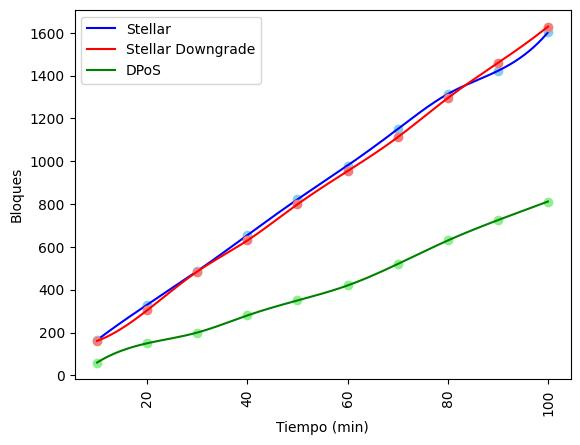
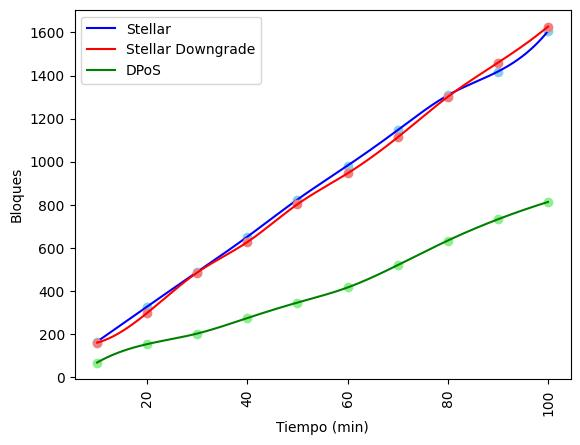
Improve chart generation

diff --git a/chart.py b/chart.py
@@ -32,53 +32,33 @@ def renderPlot(df, xLabel, yLabel, chartName):
     plt.savefig('charts/%s.jpg' % chartName,  bbox_inches="tight")
     plt.clf()
 
+def getJsonFile(filename):
+    with open(filename) as f:
+        data = json.load(f)
+    return data
+
+def getAverageData(filenames, getArr):
+    sumList = None
+    for filename in filenames:
+        data = getJsonFile(filename)
+        filterData = getArr(data)
+        if(sumList == None):
+            sumList = filterData
+        else:
+            sumList = list(map(lambda x,y: x+y, sumList, filterData))
+    return list(map(lambda x: x / len(filenames), sumList))
+
 ########################################
 # Bloques by Nodes
 ########################################
-## Stellar
-with open('results/stellar_10.json') as f:
-    stellar = json.load(f)
+def getBlockByNode(data):
+    return list(map(lambda x: x['blocks'], data['10'].values()))
 
-stellars_blocks = list(map(lambda x: x['blocks'], stellar['10'].values())) 
+stellars_blocks = getAverageData(['results/stellar_10.json'] + [f'results/stellar_10_{i}.json' for i in range(1, 6)] , getBlockByNode) 
+stellars_downgrade_blocks = getAverageData(['results/stellar_downgrade_10.json'] + [f'results/stellar_downgrade_10_{i}.json' for i in range(1, 6)] , getBlockByNode)
+dpos_blocks = getAverageData(['results/dpos_10.json'] + [f'results/dpos_10_{i}.json' for i in range(1, 6)] , getBlockByNode)
 
-for i in range(1, 6):
-   with open(f'results/stellar_10_{i}.json') as f1:
-       stellar_temp = json.load(f1)
-       blocks_temp = list(map(lambda x: x['blocks'], stellar_temp['10'].values()))
-       stellars_blocks = list(map(lambda x,y: x+y, stellars_blocks, blocks_temp))
-stellars_blocks = list(map(lambda x: x / 6, stellars_blocks))
-
-
-## Stellar downgrade
-with open('results/stellar_downgrade_10.json') as f:
-    stellar_downgrade = json.load(f)
-
-stellars_downgrade_blocks = list(map(lambda x: x['blocks'], stellar_downgrade['10'].values())) 
-
-for i in range(1, 6):
-   with open(f'results/stellar_downgrade_10_{i}.json') as f1:
-       temp = json.load(f1)
-       blocks_temp = list(map(lambda x: x['blocks'], temp['10'].values()))
-       stellars_downgrade_blocks = list(map(lambda x,y: x+y, stellars_downgrade_blocks, blocks_temp))
-stellars_downgrade_blocks = list(map(lambda x: x / 6, stellars_downgrade_blocks))
-
-## DPOS
-
-with open('results/dpos_10.json') as f:
-    dpos = json.load(f)
-
-dpos_blocks = list(map(lambda x: x['blocks'], dpos['10'].values())) 
-
-for i in range(1, 6):
-   with open(f'results/dpos_10_{i}.json') as f1:
-       temp = json.load(f1)
-       blocks_temp = list(map(lambda x: x['blocks'], temp['10'].values()))
-       dpos_blocks = list(map(lambda x,y: x+y, dpos_blocks, blocks_temp))
-dpos_blocks = list(map(lambda x: x / 6, dpos_blocks))
-
-xvalues = np.array(list(map(lambda x: int(x), stellar['10'].keys())))
-
-
+xvalues = np.array(list(map(lambda x: int(x), getJsonFile('results/stellar_10.json')['10'].keys())))
 values = {
     'x_values': xvalues, 
     'y1_values': stellars_blocks, 
@@ -95,52 +75,75 @@ renderPlot(df, "Nodos", "Bloques", "Bloques_Nodos")
 # Blocks by Time
 ########################################
 
-with open('results/stellar_10-20-30-40-50-60-70-80-90-100.json') as f:
-    stellar = json.load(f)
+def getBlockByTime(data):
+    return list(map(lambda item: item['5000']['blocks'], data.values()))
 
-with open('results/stellar_downgrade_10-20-30-40-50-60-70-80-90-100.json') as f:
-    stellar_downgrade = json.load(f)
+stellars_blocks = getAverageData(['results/stellar_10-20-30-40-50-60-70-80-90-100.json'] + [f'results/stellar_10-20-30-40-50-60-70-80-90-100_{i}.json' for i in range(1, 6)] , getBlockByTime) 
+stellars_downgrade_blocks = getAverageData(['results/stellar_downgrade_10-20-30-40-50-60-70-80-90-100.json'] + [f'results/stellar_downgrade_10-20-30-40-50-60-70-80-90-100_{i}.json' for i in range(1, 6)] , getBlockByTime)
+dpos_blocks = getAverageData(['results/dpos_10-20-30-40-50-60-70-80-90-100.json'] + [f'results/dpos_10-20-30-40-50-60-70-80-90-100_{i}.json' for i in range(1, 6)] , getBlockByTime)
 
-with open('results/dpos_10-20-30-40-50-60-70-80-90-100.json') as f:
-    dpos = json.load(f)
-
-xValues = np.array(list(map(lambda x: int(x), stellar.keys())))
-y1Values = list(map(lambda item: item['5000']['blocks'], stellar.values()))
-y2Values = list(map(lambda item: item['5000']['blocks'], stellar_downgrade.values())) 
-y3Values = list(map(lambda item: item['5000']['blocks'], dpos.values()))
-df=pd.DataFrame({'x_values': xValues, 'y1_values': y1Values, 'y2_values': y2Values, 'y3_values': y3Values })
+xvalues = np.array(list(map(lambda x: int(x), getJsonFile('results/stellar_10-20-30-40-50-60-70-80-90-100.json').keys())))
+df=pd.DataFrame({
+    'x_values': xvalues, 
+    'y1_values': stellars_blocks, 
+    'y2_values': stellars_downgrade_blocks, 
+    'y3_values': dpos_blocks 
+})
 print(df)
 renderPlot(df, "Tiempo (min)", "Bloques", "Bloques_Tiempo")
 
 ########################################
 # Nodes by consensus time
 ########################################
-with open('results/stellar_20.json') as f:
-    stellar = json.load(f)
+def getNodeByConsensusTime(data):
+    return list(map(lambda item: item['consensusTime'], data['20'].values()))
 
-with open('results/stellar_downgrade_20.json') as f:
-    stellar_downgrade = json.load(f)
 
-with open('results/dpos_20.json') as f:
-    dpos = json.load(f)
+stellars_blocks = getAverageData(['results/stellar_20.json'] + [f'results/stellar_20_{i}.json' for i in range(1, 6)] , getNodeByConsensusTime) 
+stellars_downgrade_blocks = getAverageData(['results/stellar_downgrade_20.json'] + [f'results/stellar_downgrade_20_{i}.json' for i in range(1, 6)] , getNodeByConsensusTime)
+dpos_blocks = getAverageData(['results/dpos_20.json'] + [f'results/dpos_20_{i}.json' for i in range(1, 6)] , getNodeByConsensusTime)
 
-xValues = np.array(list(map(lambda x: int(x), stellar['20'].keys())))
-y1Values = list(map(lambda item: item['consensusTime'], stellar['20'].values()))
-y2Values = list(map(lambda item: item['consensusTime'], stellar_downgrade['20'].values())) 
-y3Values = list(map(lambda item: item['consensusTime'], dpos['20'].values())) 
-df=pd.DataFrame({'x_values': xValues, 'y1_values': y1Values, 'y2_values': y2Values, 'y3_values': y3Values })
+
+# with open('results/stellar_20.json') as f:
+#     stellar = json.load(f)
+
+# with open('results/stellar_downgrade_20.json') as f:
+#     stellar_downgrade = json.load(f)
+
+# with open('results/dpos_20.json') as f:
+#     dpos = json.load(f)
+
+# xValues = np.array(list(map(lambda x: int(x), stellar['20'].keys())))
+# y1Values = list(map(lambda item: item['consensusTime'], stellar['20'].values()))
+# y2Values = list(map(lambda item: item['consensusTime'], stellar_downgrade['20'].values())) 
+# y3Values = list(map(lambda item: item['consensusTime'], dpos['20'].values())) 
+xvalues = np.array(list(map(lambda x: int(x), getJsonFile('results/stellar_20.json')['20'].keys())))
+
+df=pd.DataFrame({
+    'x_values': xvalues, 
+    'y1_values': stellars_blocks, 
+    'y2_values': stellars_downgrade_blocks, 
+    'y3_values': dpos_blocks 
+})
 print(df)
 renderPlot(df, "Nodos", "Tiempo de consenso", "Nodos_Tiempo_Consenso")
 
 ########################################
 # Blocks by SPB
 ########################################
+def getBlockBySPB(data):
+    return list(map(lambda item: item['spb'], data['20'].values()))
 
-xValues = np.array(list(map(lambda x: int(x), stellar['20'].keys())))
-y1Values = list(map(lambda item: item['spb'], stellar['20'].values()))
-y2Values = list(map(lambda item: item['spb'], stellar_downgrade['20'].values())) 
-y3Values = list(map(lambda item: item['spb'], dpos['20'].values()))
+stellars_blocks = getAverageData(['results/stellar_20.json'] + [f'results/stellar_20_{i}.json' for i in range(1, 6)] , getBlockBySPB) 
+stellars_downgrade_blocks = getAverageData(['results/stellar_downgrade_20.json'] + [f'results/stellar_downgrade_20_{i}.json' for i in range(1, 6)] , getBlockBySPB)
+dpos_blocks = getAverageData(['results/dpos_20.json'] + [f'results/dpos_20_{i}.json' for i in range(1, 6)] , getBlockBySPB)
 
-df=pd.DataFrame({'x_values': xValues, 'y1_values': y1Values, 'y2_values': y2Values, 'y3_values': y3Values })
+
+df=pd.DataFrame({
+    'x_values': xvalues, 
+    'y1_values': stellars_blocks, 
+    'y2_values': stellars_downgrade_blocks, 
+    'y3_values': dpos_blocks
+})
 print(df)
 renderPlot(df, "Nodos", "SPB", "Nodos_SPB")

diff --git a/chart_box_plot.py b/chart_box_plot.py
@@ -6,13 +6,26 @@ data_1 = np.random.normal(100, 10, 16)
 data_2 = np.random.normal(90, 20, 16)
 data_3 = np.random.normal(80, 30, 16)
 data_4 = np.random.normal(70, 40, 16)
-data = [data_1, data_2, data_3, data_4]
+
+data_5 = np.random.normal(100, 10, 16)
+data_6 = np.random.normal(90, 20, 16)
+data_7 = np.random.normal(80, 30, 16)
+data_8 = np.random.normal(70, 40, 16)
+
  
 fig = plt.figure(figsize =(10, 7))
 ax = fig.add_subplot(111)
  
-bp = ax.boxplot(data, patch_artist = True,
+bp = ax.boxplot([data_1, data_2, data_3, data_4], patch_artist = True,
                 notch ='True')
+
+bp = ax.boxplot([data_5, data_6, data_7, data_8], patch_artist = True,
+                notch ='True')
+colors = ['#0000FF', '#00FF00',
+          '#FFFF00', '#FF00FF']
+ 
+for patch, color in zip(bp['boxes'], colors):
+    patch.set_facecolor(color)
 
 plt.title("Consensus algorithms")
  
